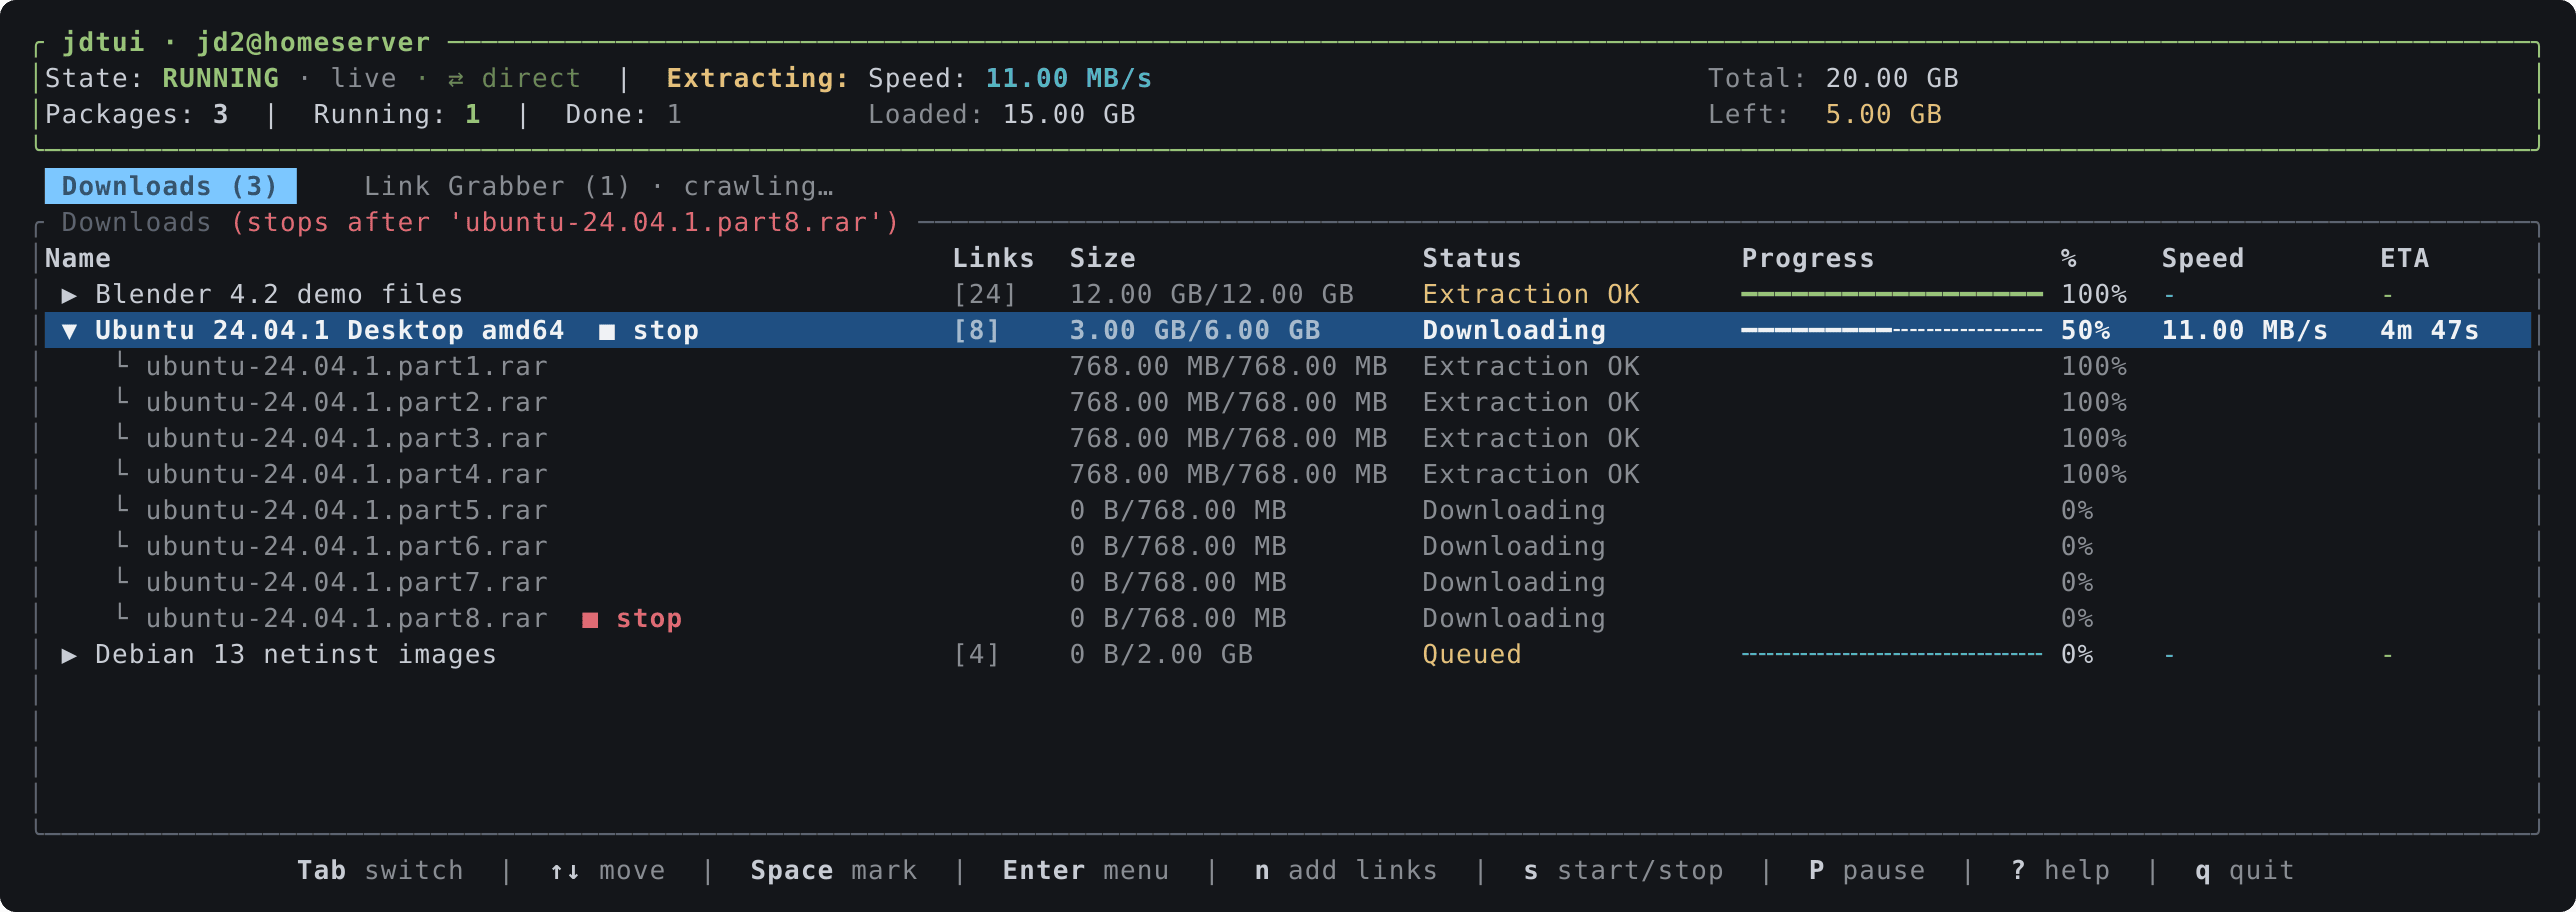
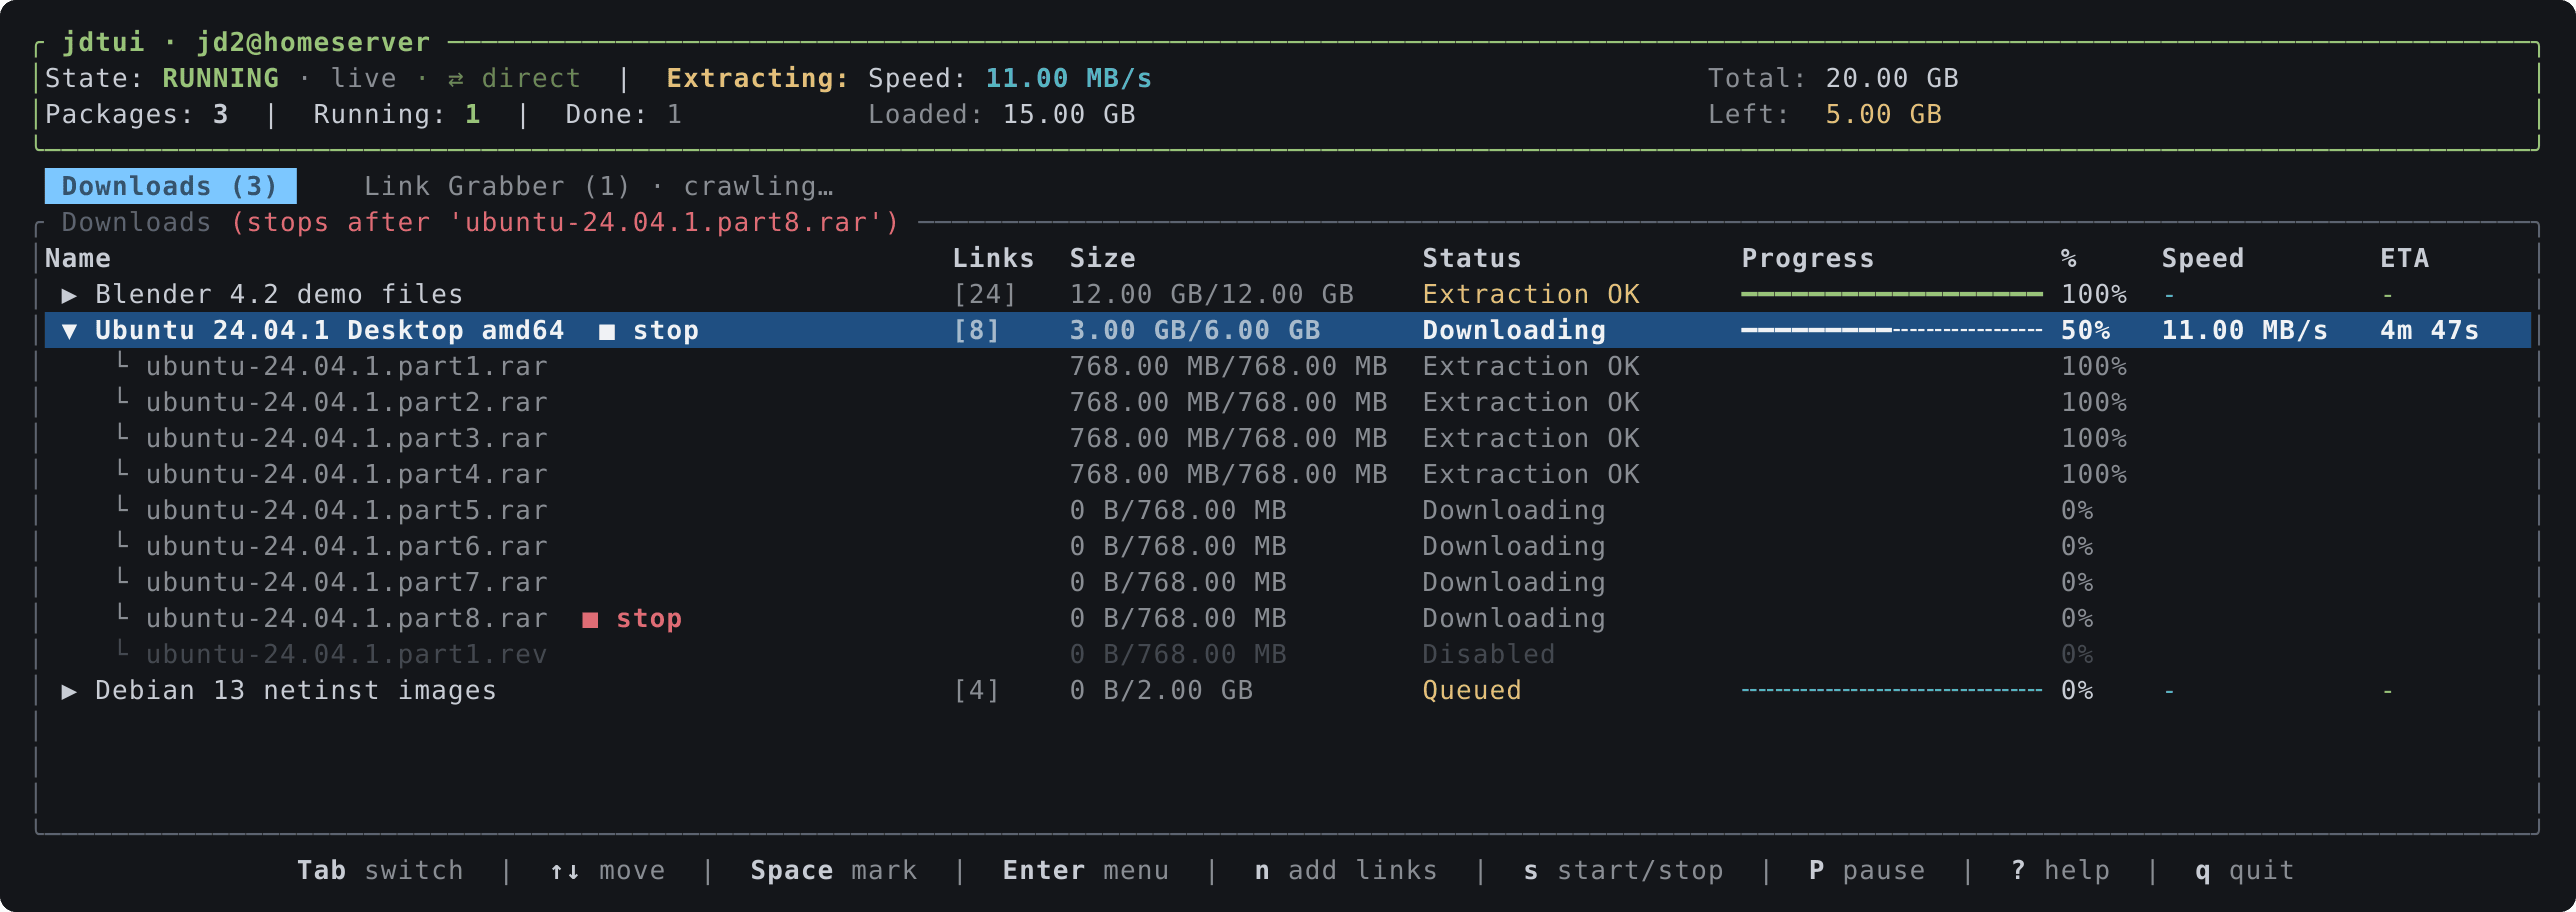
Grey out disabled packages and links
JDownloader adds recovery volumes disabled and leaves the enabled flag
out of the answer when it is false; the row now fades as in the web
interface and its status reads Disabled.

Claude-Session: https://claude.ai/code/session_01NSUbKnhG1qboZoRWXZUaah

diff --git a/src/ui.rs b/src/ui.rs
@@ -8,7 +8,7 @@ use ratatui::widgets::{Block, BorderType, Cell, Clear, Paragraph, Row as TRow, T
 
 use crate::api::{Link, Package};
 use crate::app::{App, HELP, Mode, Screen};
-use crate::model::{FieldKind, Form, PRIORITIES, Row, Tab, describe, row_key, row_stop_marked};
+use crate::model::{FieldKind, Form, PRIORITIES, Row, Tab, describe, row_enabled, row_key, row_stop_marked};
 
 // --- palette ----------------------------------------------------------------
 //
@@ -515,7 +515,10 @@ fn draw_list(frame: &mut Frame, app: &App, area: Rect) {
 }
 
 fn row_base_style(app: &App, packages: &[Package], row: &Row) -> Style {
-    if app.marked.contains(&row_key(packages, row)) { marked_style() } else { Style::new() }
+    let base = if app.marked.contains(&row_key(packages, row)) { marked_style() } else { Style::new() };
+    // A disabled row fades, as in the web interface: grey where the cells
+    // set no colour of their own, dimmed where they do.
+    if row_enabled(packages, row) { base } else { base.fg(Color::DarkGray).add_modifier(Modifier::DIM) }
 }
 
 fn mark(app: &App, packages: &[Package], row: &Row) -> &'static str {
@@ -604,6 +607,8 @@ fn downloads_rows<'a>(app: &'a App, packages: &'a [Package]) -> (Vec<&'static st
                                     "Finished".into()
                                 } else if link.running.unwrap_or(false) {
                                     "Downloading".into()
+                                } else if !link.is_enabled() {
+                                    "Disabled".into()
                                 } else {
                                     "-".into()
                                 }

diff --git a/examples/screenshots.rs b/examples/screenshots.rs
@@ -239,6 +239,13 @@ fn demo() -> Snapshot {
                     i < 4,
                 )
             })
+            .chain(std::iter::once({
+                // A recovery volume: JDownloader adds it disabled.
+                let mut l = link(209, 2, "ubuntu-24.04.1.part1.rev", 0, 768 * 1024 * 1024, false);
+                l.enabled = None;
+                l.status = None;
+                l
+            }))
             .collect(),
         ..Default::default()
     };

diff --git a/src/api.rs b/src/api.rs
@@ -91,6 +91,9 @@ impl Package {
 }
 
 impl Link {
+    /// JDownloader leaves `enabled` out when it is false (a `.rev` volume
+    /// it added disabled has no `enabled` and no `status` at all), so a
+    /// missing value means disabled.
     pub fn is_enabled(&self) -> bool {
         self.enabled.unwrap_or(false)
     }

diff --git a/.serena/memories/api_quirks.md b/.serena/memories/api_quirks.md
@@ -20,3 +20,5 @@
 - `device/getDirectConnectionInfos` (namespace `device`, not `jd`) → `{infos:[{ip,port}], mode: "LAN_WAN_MANUAL"|…, rebindProtectionDetected}`. Takes ~1.5 s on JD's side (it works out its addresses every call). A Docker JD lists only its container IP (may even be stale), 127.0.0.1 and the WAN IP it detects — not the Docker host's LAN IP.
 - Direct calls: same encrypted body, same `/t_<session>_<device>/path`, base `http://ip:port` (https works too; the web UI uses https via `<ip-with-dashes>.mydns.jdownloader.org` only for mixed-content reasons). The web UI (`https://my.jdownloader.org/jdapi/jdapi.min.js`, `_pingForAvailability`) pings all infos with `/device/ping` in parallel and keeps the fastest (`setLocalURL`); the icon is `isInLocalMode()`. jdtui: `MyJd::probe_direct` (scoped threads, `PROBE_TIMEOUT` 1 s), `JdApi::ensure_direct(extra)` from the poller (retry every `PROBE_RETRY` 5 min while on relay), transport error on a direct call → `direct = None` and the call is retried on the relay at once; `DIRECT_TIMEOUT` 5 s for direct calls without their own timeout.
 - User's setup: JD reports WAN 203.0.113.11:3129 (works from pc-work, ~120 ms = no gain vs relay); the real public IP 203.0.113.10:3129 works only from outside (no hairpin NAT); LAN 192.168.1.30:3129 gets a TCP reset before reaching the docker VM (something in front of it, not JD) — once opened, `direct_addresses = ["192.168.1.30:3129"]` gives ~3 ms calls.
+
+- queryLinks/queryPackages omit boolean fields that are false: a disabled link comes with no `enabled` key (and no `status`), so `Option<bool>` None must read as false (`is_enabled()` does).

diff --git a/CHANGELOG.md b/CHANGELOG.md
@@ -1,5 +1,11 @@
 # Changelog
 
+## Unreleased
+
+- Disabled packages and links are greyed out in both lists, as in the web
+  interface: the recovery volumes JDownloader adds disabled stand out from
+  what will download.
+
 ## 1.3.1 — 2026-09-06
 
 - The header shows an idle or stopped list in grey instead of red, and an
